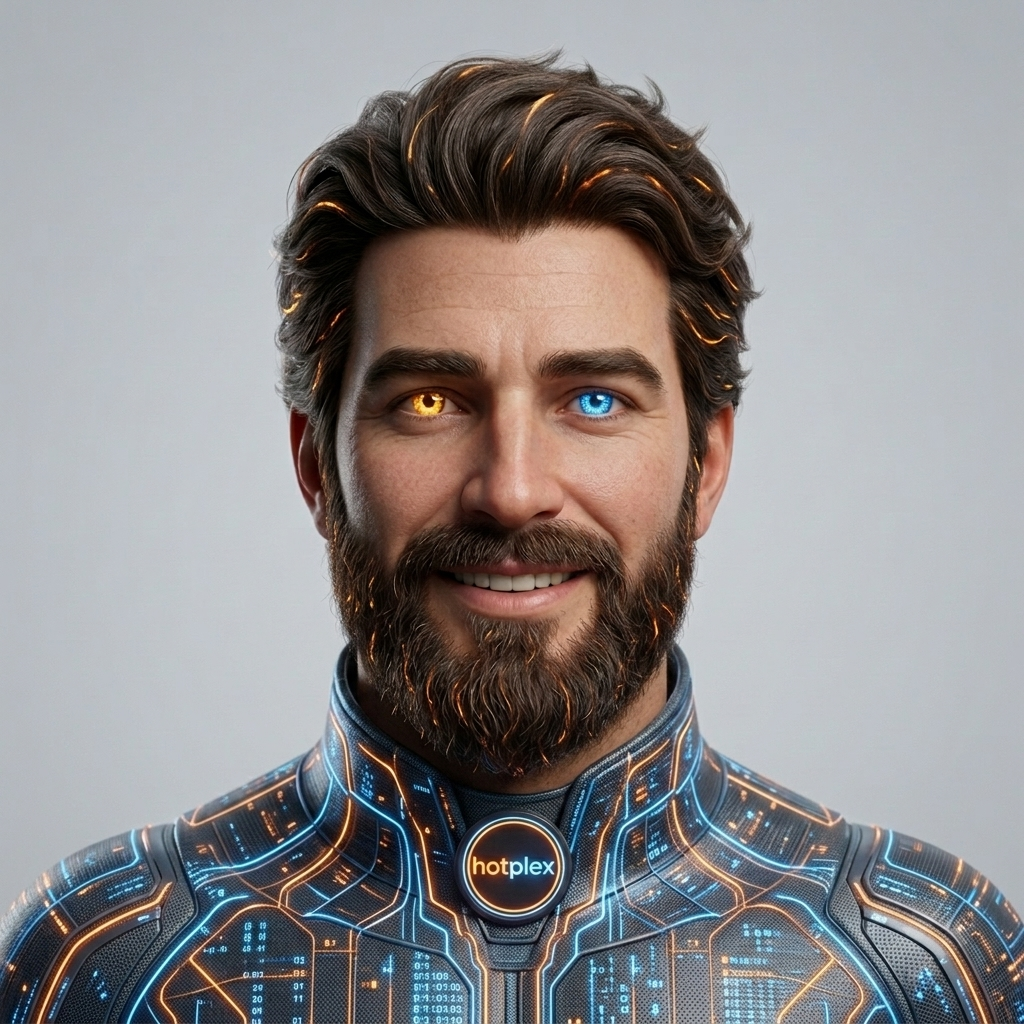
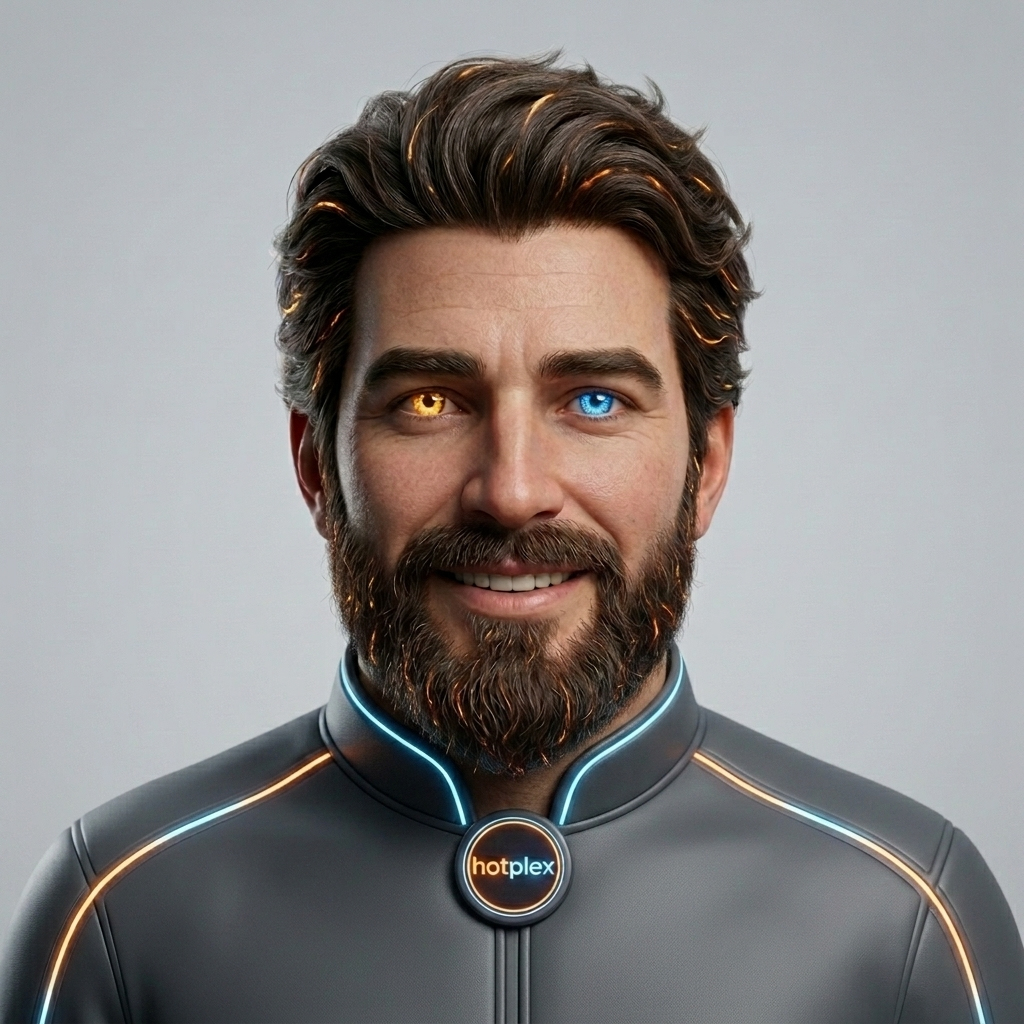
✨ feat(admin): replace delete confirm dialog with inline Confirm/Cancel buttons

Changed region(s): [[0.0, 0.625, 1.0, 1.0]]

diff --git a/webchat/app/admin/sessions/page.tsx b/webchat/app/admin/sessions/page.tsx
@@ -47,6 +47,7 @@ export default function SessionsPage() {
   const [sort, setSort] = useState<SortOption>('last_active');
   const [query, setQuery] = useState('');
   const [actionLoading, setActionLoading] = useState<string | null>(null);
+  const [confirmId, setConfirmId] = useState<string | null>(null);
 
   const loadSessions = useCallback(async () => {
     try {
@@ -121,9 +122,9 @@ export default function SessionsPage() {
   };
 
   const handleDelete = async (id: string) => {
-    if (!window.confirm('Delete this session permanently? This cannot be undone.')) return;
     try {
       setActionLoading(id);
+      setConfirmId(null);
       await deleteSession(id);
       setSessions((prev) => prev.filter((s) => s.id !== id));
     } catch (err) {
@@ -360,38 +361,69 @@ export default function SessionsPage() {
                   className="flex items-center justify-end gap-1"
                   onClick={(e) => e.preventDefault()}
                 >
-                  {session.state !== 'terminated' && (
-                    <button
-                      onClick={(e) => {
-                        e.stopPropagation();
-                        handleTerminate(session.id);
-                      }}
-                      disabled={actionLoading === session.id}
-                      className="p-1.5 rounded-[var(--radius-sm)] text-[var(--accent-amber)] bg-[rgba(245,158,11,0.1)] hover:bg-[rgba(245,158,11,0.2)] transition-colors disabled:opacity-40 disabled:cursor-not-allowed"
-                      title="Terminate session"
-                    >
-                      {actionLoading === session.id ? (
-                        <div className="w-3.5 h-3.5 border border-current border-t-transparent rounded-full animate-spin" />
-                      ) : (
-                        <svg xmlns="http://www.w3.org/2000/svg" fill="none" viewBox="0 0 24 24" strokeWidth={1.5} stroke="currentColor" className="h-3.5 w-3.5">
-                          <path strokeLinecap="round" strokeLinejoin="round" d="M5.636 5.636a9 9 0 1 0 12.728 0M12 3v9" />
-                        </svg>
+                  {confirmId === session.id ? (
+                    <div className="flex items-center gap-1 animate-[fadeInScale_0.12s_ease-out]">
+                      <button
+                        onClick={(e) => {
+                          e.stopPropagation();
+                          handleDelete(session.id);
+                        }}
+                        disabled={actionLoading === session.id}
+                        className="px-2 py-1 rounded-[var(--radius-sm)] text-[10px] font-bold text-[var(--accent-coral)] bg-[rgba(244,63,94,0.1)] hover:bg-[rgba(244,63,94,0.2)] transition-colors disabled:opacity-40"
+                      >
+                        {actionLoading === session.id ? (
+                          <span className="inline-block w-3 h-3 border border-current border-t-transparent rounded-full animate-spin" />
+                        ) : (
+                          'Confirm'
+                        )}
+                      </button>
+                      <button
+                        onClick={(e) => {
+                          e.stopPropagation();
+                          setConfirmId(null);
+                        }}
+                        disabled={actionLoading === session.id}
+                        className="px-2 py-1 rounded-[var(--radius-sm)] text-[10px] font-bold text-[var(--text-faint)] hover:text-[var(--text-secondary)] hover:bg-[var(--bg-hover)] transition-colors disabled:opacity-40"
+                      >
+                        Cancel
+                      </button>
+                    </div>
+                  ) : (
+                    <>
+                      {session.state !== 'terminated' && (
+                        <button
+                          onClick={(e) => {
+                            e.stopPropagation();
+                            handleTerminate(session.id);
+                          }}
+                          disabled={actionLoading === session.id}
+                          className="p-1.5 rounded-[var(--radius-sm)] text-[var(--accent-amber)] bg-[rgba(245,158,11,0.1)] hover:bg-[rgba(245,158,11,0.2)] transition-colors disabled:opacity-40 disabled:cursor-not-allowed"
+                          title="Terminate session"
+                        >
+                          {actionLoading === session.id ? (
+                            <div className="w-3.5 h-3.5 border border-current border-t-transparent rounded-full animate-spin" />
+                          ) : (
+                            <svg xmlns="http://www.w3.org/2000/svg" fill="none" viewBox="0 0 24 24" strokeWidth={1.5} stroke="currentColor" className="h-3.5 w-3.5">
+                              <path strokeLinecap="round" strokeLinejoin="round" d="M5.636 5.636a9 9 0 1 0 12.728 0M12 3v9" />
+                            </svg>
+                          )}
+                        </button>
                       )}
-                    </button>
+                      <button
+                        onClick={(e) => {
+                          e.stopPropagation();
+                          setConfirmId(session.id);
+                        }}
+                        disabled={actionLoading === session.id}
+                        className="p-1.5 rounded-[var(--radius-sm)] text-[var(--accent-coral)] bg-[rgba(244,63,94,0.08)] hover:bg-[rgba(244,63,94,0.15)] transition-colors disabled:opacity-40 disabled:cursor-not-allowed"
+                        title="Delete session"
+                      >
+                        <svg xmlns="http://www.w3.org/2000/svg" fill="none" viewBox="0 0 24 24" strokeWidth={1.5} stroke="currentColor" className="h-3.5 w-3.5">
+                          <path strokeLinecap="round" strokeLinejoin="round" d="m14.74 9-.346 9m-4.788 0L9.26 9m9.968-3.21c.342.052.682.107 1.022.166m-1.022-.165L18.16 19.673a2.25 2.25 0 0 1-2.244 2.077H8.084a2.25 2.25 0 0 1-2.244-2.077L4.772 5.79m14.456 0a48.108 48.108 0 0 0-3.478-.397m-12 .562c.34-.059.68-.114 1.022-.165m0 0a48.11 48.11 0 0 1 3.478-.397m7.5 0v-.916c0-1.18-.91-2.164-2.09-2.201a51.964 51.964 0 0 0-3.32 0c-1.18.037-2.09 1.022-2.09 2.201v.916m7.5 0a48.667 48.667 0 0 0-7.5 0" />
+                        </svg>
+                      </button>
+                    </>
                   )}
-                  <button
-                    onClick={(e) => {
-                      e.stopPropagation();
-                      handleDelete(session.id);
-                    }}
-                    disabled={actionLoading === session.id}
-                    className="p-1.5 rounded-[var(--radius-sm)] text-[var(--accent-coral)] bg-[rgba(244,63,94,0.08)] hover:bg-[rgba(244,63,94,0.15)] transition-colors disabled:opacity-40 disabled:cursor-not-allowed"
-                    title="Delete session"
-                  >
-                    <svg xmlns="http://www.w3.org/2000/svg" fill="none" viewBox="0 0 24 24" strokeWidth={1.5} stroke="currentColor" className="h-3.5 w-3.5">
-                      <path strokeLinecap="round" strokeLinejoin="round" d="m14.74 9-.346 9m-4.788 0L9.26 9m9.968-3.21c.342.052.682.107 1.022.166m-1.022-.165L18.16 19.673a2.25 2.25 0 0 1-2.244 2.077H8.084a2.25 2.25 0 0 1-2.244-2.077L4.772 5.79m14.456 0a48.108 48.108 0 0 0-3.478-.397m-12 .562c.34-.059.68-.114 1.022-.165m0 0a48.11 48.11 0 0 1 3.478-.397m7.5 0v-.916c0-1.18-.91-2.164-2.09-2.201a51.964 51.964 0 0 0-3.32 0c-1.18.037-2.09 1.022-2.09 2.201v.916m7.5 0a48.667 48.667 0 0 0-7.5 0" />
-                    </svg>
-                  </button>
                 </span>
               </Link>
             ))}
